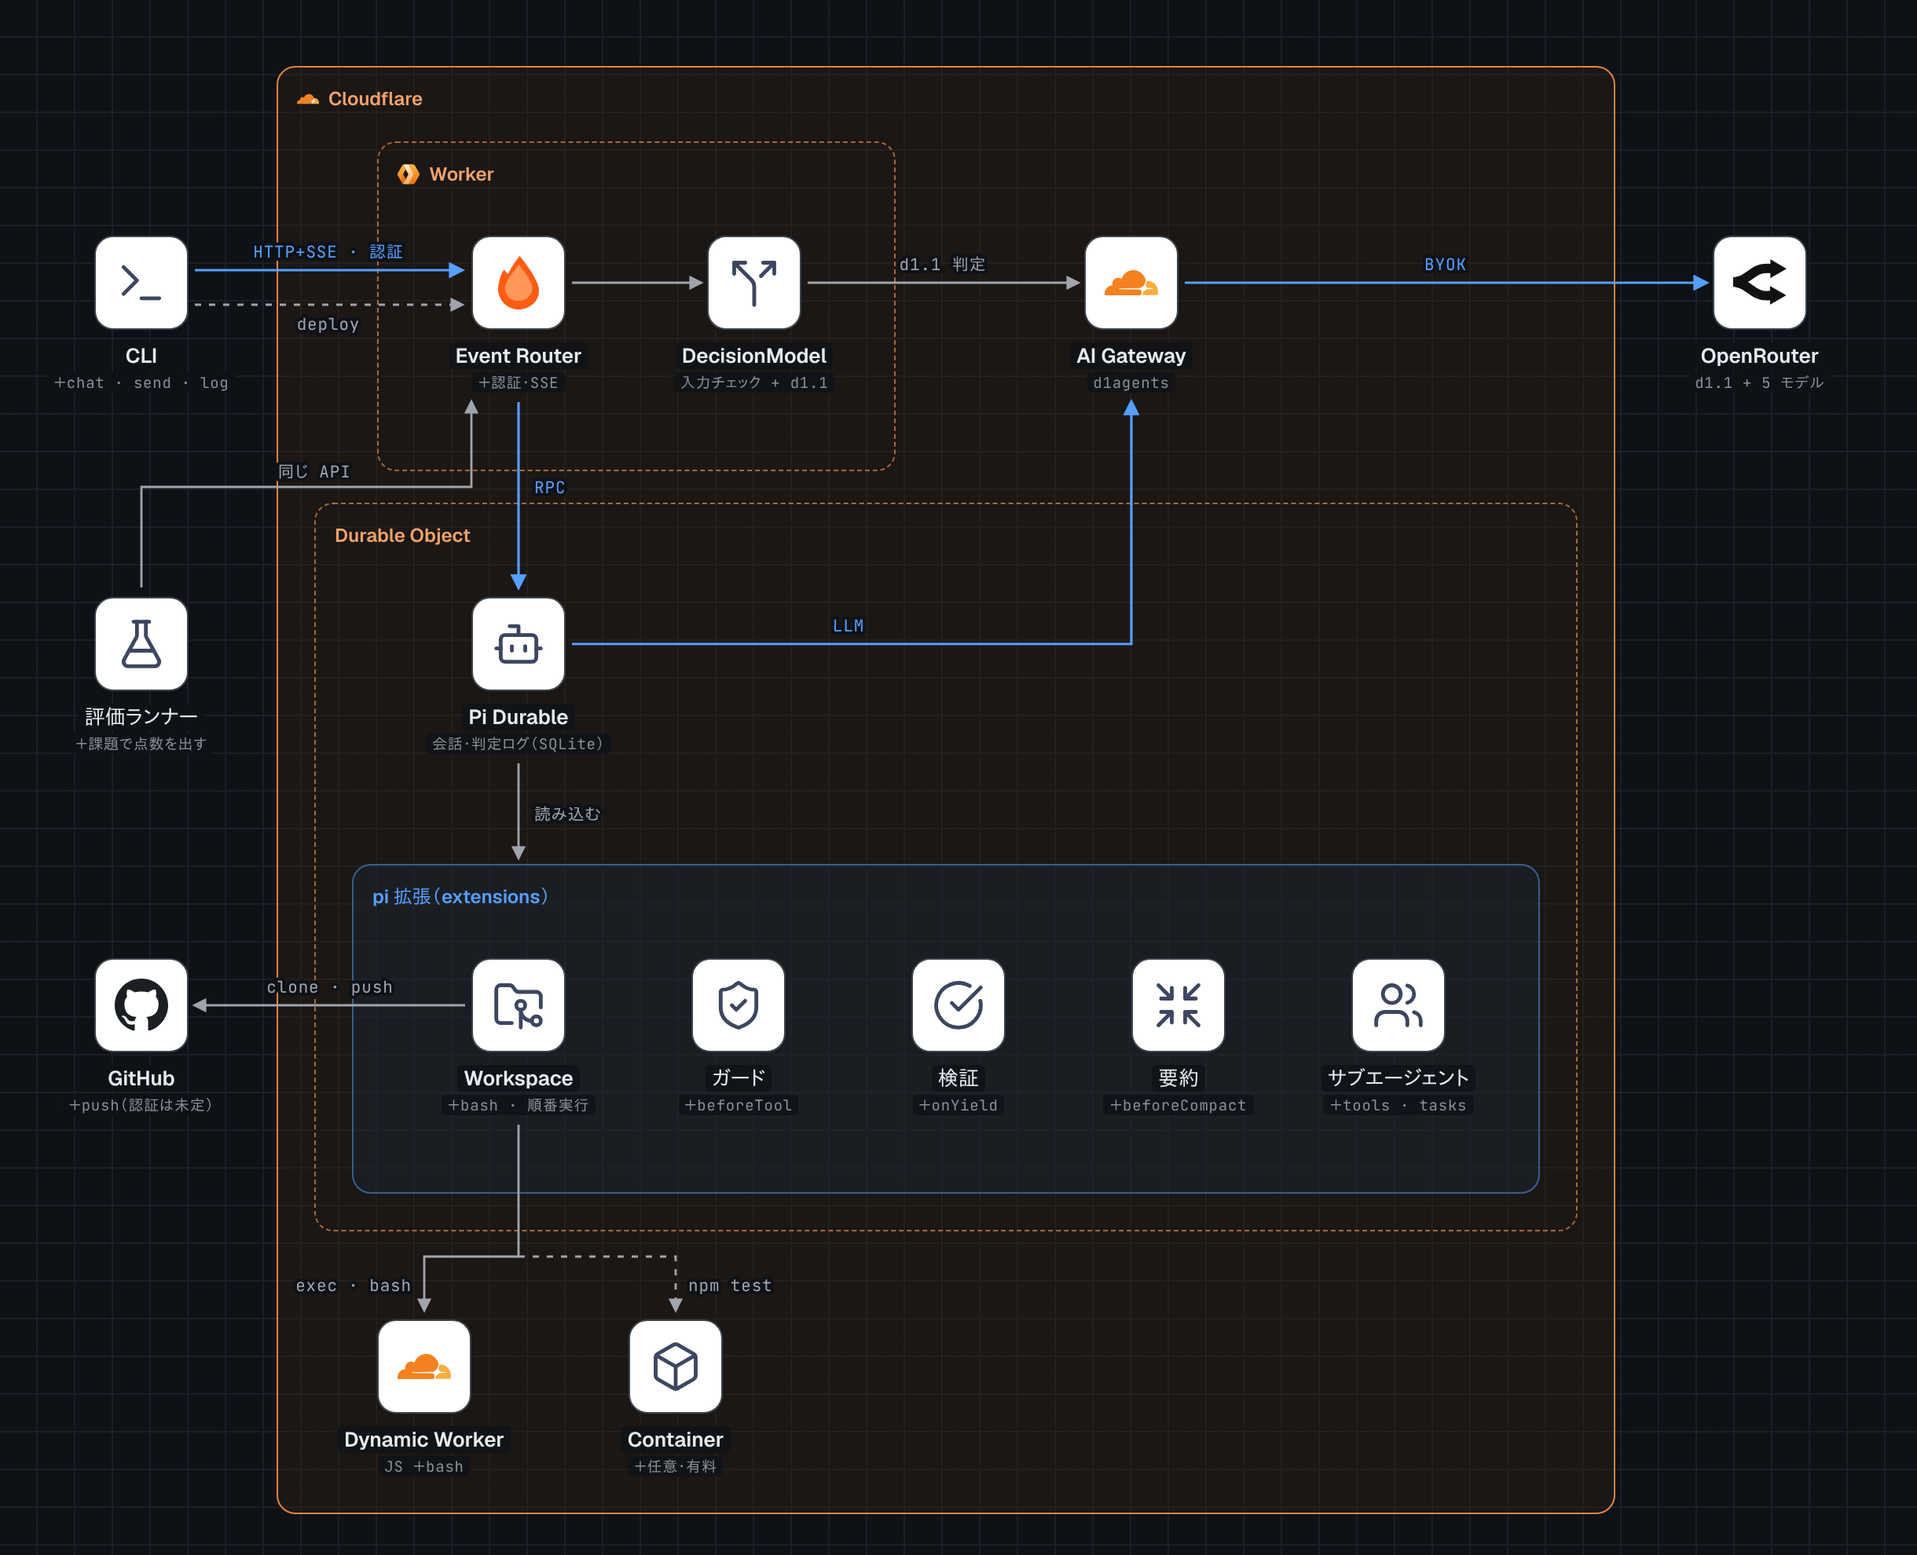
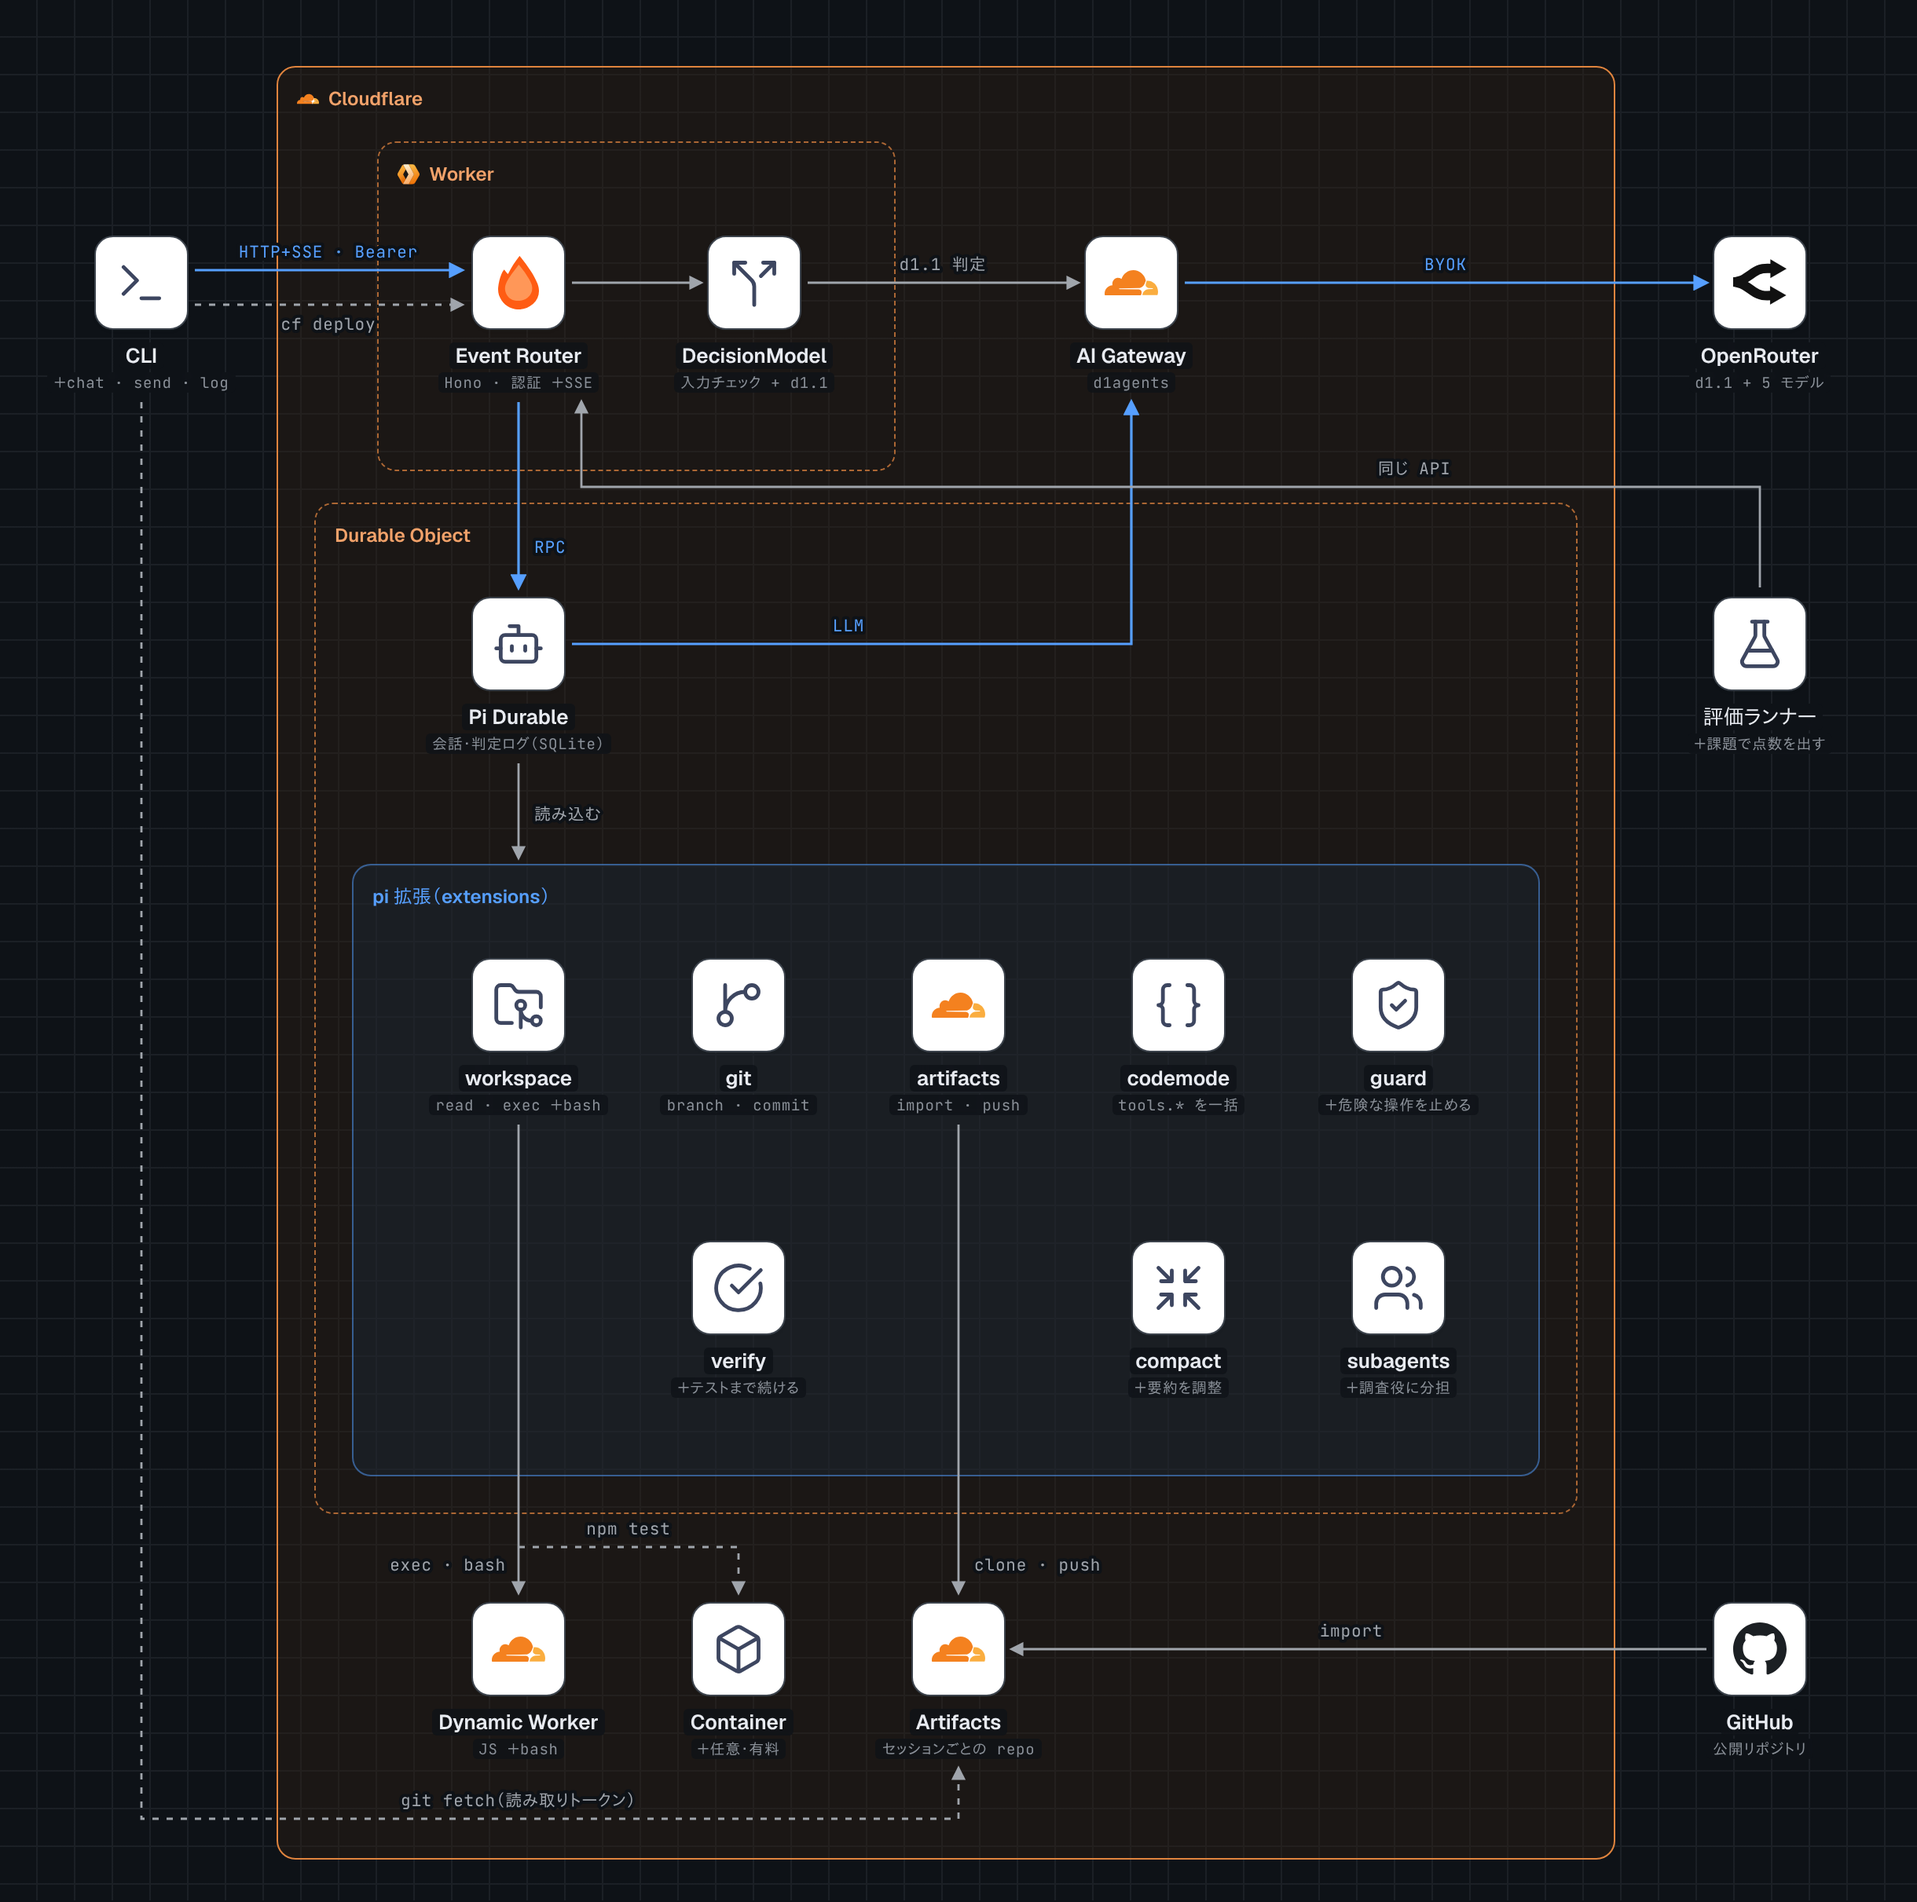
Redraw the target architecture diagram for Artifacts
The target diagram still showed the GitHub App path. Redraw it on the
current diagram's coordinates: per-session Artifacts repositories with
GitHub as an import source, the four current extensions, and the proposed
guard, verify, compact and subagents extensions in a second row, plus the
CLI, eval runner, SSE, bash and an optional Container. Refresh the
architecture README text and the current test count.

Claude-Session: https://claude.ai/code/session_01XNok8SzKsrcwuLyNE55Cg3

diff --git a/docs/architecture/target.html b/docs/architecture/target.html
@@ -189,67 +189,67 @@ table.cmp td code { font-family: var(--font-mono); font-size: 11.5px; }
       <div class="kicker">d1agents / 期待値 / 2026-11</div>
       <h1>D1Agents 期待値（案）</h1>
     </div>
-    <p class="lede">ハーネスの振る舞いは pi 拡張として足し、認証・API・SSE はアプリ側に足す案。</p>
+    <p class="lede">いまの構成に、CLI・評価ランナー・SSE、bash と Container、ガード・検証・要約・サブエージェントの拡張を足した案。</p>
   </header>
 
   <div class="scroller">
-  <div class="canvas" style="width:1220px; height:990px;">
+  <div class="canvas" style="width:1220px; height:1210px;">
 
-    <div class="group ga" style="left:176px; top:42px; width:852px; height:922px;">
+    <div class="group ga" style="left:176px; top:42px; width:852px; height:1142px;">
[1 lines of base64/hex data omitted]
     </div>
     <div class="group ga-nested" style="left:240px; top:90px; width:330px; height:210px;">
[1 lines of base64/hex data omitted]
     </div>
-    <div class="group ga-nested" style="left:200px; top:320px; width:804px; height:464px;">
+    <div class="group ga-nested" style="left:200px; top:320px; width:804px; height:644px;">
       <div class="g-label">Durable Object</div>
     </div>
-    <div class="group gb" style="left:224px; top:550px; width:756px; height:210px;">
+    <div class="group gb" style="left:224px; top:550px; width:756px; height:390px;">
       <div class="g-label">pi 拡張（extensions）</div>
     </div>
 
-    <svg class="edges" style="width:1220px; height:990px;" viewBox="0 0 1220 990" aria-hidden="true">
+    <svg class="edges" style="width:1220px; height:1210px;" viewBox="0 0 1220 1210" aria-hidden="true">
       <defs>
         <marker id="ar" viewBox="0 0 10 10" refX="8" refY="5" markerWidth="6.5" markerHeight="6.5" orient="auto-start-reverse">
           <path d="M0 0 L10 5 L0 10 z" fill="context-stroke"/>
         </marker>
       </defs>
       <path class="e" d="M124 172 H294" marker-end="url(#ar)"/>
-      <text class="el a" x="209" y="164" text-anchor="middle">HTTP+SSE · 認証</text>
+      <text class="el a" x="209" y="164" text-anchor="middle">HTTP+SSE · Bearer</text>
       <path class="n dash" d="M124 194 H294" marker-end="url(#ar)"/>
-      <text class="el" x="209" y="210" text-anchor="middle">deploy</text>
+      <text class="el" x="209" y="210" text-anchor="middle">cf deploy</text>
       <path class="n" d="M364 180 H446" marker-end="url(#ar)"/>
       <path class="n" d="M514 180 H686" marker-end="url(#ar)"/>
       <text class="el" x="600" y="172" text-anchor="middle">d1.1 判定</text>
       <path class="e" d="M754 180 H1086" marker-end="url(#ar)"/>
       <text class="el a" x="920" y="172" text-anchor="middle">BYOK</text>
       <path class="e" d="M330 256 V374" marker-end="url(#ar)"/>
-      <text class="el a" x="340" y="314" text-anchor="start">RPC</text>
+      <text class="el a" x="340" y="352" text-anchor="start">RPC</text>
       <path class="e" d="M364 410 H720 V256" marker-end="url(#ar)"/>
       <text class="el a" x="540" y="402" text-anchor="middle">LLM</text>
       <path class="n" d="M330 486 V546" marker-end="url(#ar)"/>
       <text class="el" x="340" y="522" text-anchor="start">読み込む</text>
-      <path class="n" d="M90 374 V310 H300 V256" marker-end="url(#ar)"/>
-      <text class="el" x="200" y="304" text-anchor="middle">同じ API</text>
-      <path class="n" d="M296 640 H124" marker-end="url(#ar)"/>
-      <text class="el" x="210" y="632" text-anchor="middle">clone · push</text>
-      <path class="n" d="M330 716 V800 H270 V834" marker-end="url(#ar)"/>
-      <text class="el" x="262" y="822" text-anchor="end">exec · bash</text>
-      <path class="n dash" d="M330 800 H430 V834" marker-end="url(#ar)"/>
-      <text class="el" x="438" y="822" text-anchor="start">npm test</text>
+      <path class="n" d="M1120 374 V310 H370 V256" marker-end="url(#ar)"/>
+      <text class="el" x="900" y="302" text-anchor="middle">同じ API</text>
+      <path class="n" d="M330 716 V1014" marker-end="url(#ar)"/>
+      <text class="el" x="322" y="1000" text-anchor="end">exec · bash</text>
+      <path class="n dash" d="M330 985 H470 V1014" marker-end="url(#ar)"/>
+      <text class="el" x="400" y="977" text-anchor="middle">npm test</text>
+      <path class="n" d="M610 716 V1014" marker-end="url(#ar)"/>
+      <text class="el" x="620" y="1000" text-anchor="start">clone · push</text>
+      <path class="n" d="M1086 1050 H644" marker-end="url(#ar)"/>
+      <text class="el" x="860" y="1042" text-anchor="middle">import</text>
+      <path class="n dash" d="M90 256 V1158 H610 V1126" marker-end="url(#ar)"/>
+      <text class="el" x="330" y="1150" text-anchor="middle">git fetch（読み取りトークン）</text>
     </svg>
 
     <div class="node" style="left:24px;top:150px">
[1 lines of base64/hex data omitted]
       <div class="name"><span>CLI</span></div><div class="role"><span>＋chat · send · log</span></div>
     </div>
-    <div class="node" style="left:24px;top:380px">
[1 lines of base64/hex data omitted]
-      <div class="name"><span>評価ランナー</span></div><div class="role"><span>＋課題で点数を出す</span></div>
-    </div>
     <div class="node" style="left:264px;top:150px">
[1 lines of base64/hex data omitted]
-      <div class="name"><span>Event Router</span></div><div class="role"><span>＋認証・SSE</span></div>
+      <div class="name"><span>Event Router</span></div><div class="role"><span>Hono · 認証 ＋SSE</span></div>
     </div>
     <div class="node" style="left:414px;top:150px">
[1 lines of base64/hex data omitted]
@@ -263,41 +263,61 @@ table.cmp td code { font-family: var(--font-mono); font-size: 11.5px; }
[1 lines of base64/hex data omitted]
       <div class="name"><span>OpenRouter</span></div><div class="role"><span>d1.1 + 5 モデル</span></div>
     </div>
+    <div class="node" style="left:1054px;top:380px">
[1 lines of base64/hex data omitted]
+      <div class="name"><span>評価ランナー</span></div><div class="role"><span>＋課題で点数を出す</span></div>
+    </div>
     <div class="node" style="left:264px;top:380px">
[1 lines of base64/hex data omitted]
       <div class="name"><span>Pi Durable</span></div><div class="role"><span>会話・判定ログ（SQLite）</span></div>
     </div>
     <div class="node" style="left:264px;top:610px">
[1 lines of base64/hex data omitted]
-      <div class="name"><span>Workspace</span></div><div class="role"><span>＋bash · 順番実行</span></div>
+      <div class="name"><span>workspace</span></div><div class="role"><span>read · exec ＋bash</span></div>
     </div>
     <div class="node" style="left:404px;top:610px">
[1 lines of base64/hex data omitted]
-      <div class="name"><span>ガード</span></div><div class="role"><span>＋beforeTool</span></div>
[1 lines of base64/hex data omitted]
+      <div class="name"><span>git</span></div><div class="role"><span>branch · commit</span></div>
     </div>
     <div class="node" style="left:544px;top:610px">
[1 lines of base64/hex data omitted]
-      <div class="name"><span>検証</span></div><div class="role"><span>＋onYield</span></div>
[1 lines of base64/hex data omitted]
+      <div class="name"><span>artifacts</span></div><div class="role"><span>import · push</span></div>
     </div>
     <div class="node" style="left:684px;top:610px">
[1 lines of base64/hex data omitted]
-      <div class="name"><span>要約</span></div><div class="role"><span>＋beforeCompact</span></div>
[1 lines of base64/hex data omitted]
+      <div class="name"><span>codemode</span></div><div class="role"><span>tools.* を一括</span></div>
     </div>
     <div class="node" style="left:824px;top:610px">
[1 lines of base64/hex data omitted]
-      <div class="name"><span>サブエージェント</span></div><div class="role"><span>＋tools · tasks</span></div>
[1 lines of base64/hex data omitted]
+      <div class="name"><span>guard</span></div><div class="role"><span>＋危険な操作を止める</span></div>
     </div>
-    <div class="node" style="left:204px;top:840px">
+    <div class="node" style="left:404px;top:790px">
[1 lines of base64/hex data omitted]
+      <div class="name"><span>verify</span></div><div class="role"><span>＋テストまで続ける</span></div>
+    </div>
+    <div class="node" style="left:684px;top:790px">
[1 lines of base64/hex data omitted]
+      <div class="name"><span>compact</span></div><div class="role"><span>＋要約を調整</span></div>
+    </div>
+    <div class="node" style="left:824px;top:790px">
[1 lines of base64/hex data omitted]
+      <div class="name"><span>subagents</span></div><div class="role"><span>＋調査役に分担</span></div>
+    </div>
+    <div class="node" style="left:264px;top:1020px">
[1 lines of base64/hex data omitted]
       <div class="name"><span>Dynamic Worker</span></div><div class="role"><span>JS ＋bash</span></div>
     </div>
-    <div class="node" style="left:364px;top:840px">
+    <div class="node" style="left:404px;top:1020px">
[1 lines of base64/hex data omitted]
       <div class="name"><span>Container</span></div><div class="role"><span>＋任意・有料</span></div>
     </div>
-    <div class="node" style="left:24px;top:610px">
+    <div class="node" style="left:544px;top:1020px">
[1 lines of base64/hex data omitted]
+      <div class="name"><span>Artifacts</span></div><div class="role"><span>セッションごとの repo</span></div>
+    </div>
+    <div class="node" style="left:1054px;top:1020px">
[1 lines of base64/hex data omitted]
-      <div class="name"><span>GitHub</span></div><div class="role"><span>＋push（認証は未定）</span></div>
+      <div class="name"><span>GitHub</span></div><div class="role"><span>公開リポジトリ</span></div>
     </div>
 
   </div>
@@ -306,7 +326,7 @@ table.cmp td code { font-family: var(--font-mono); font-size: 11.5px; }
   <div class="legend">
     <span><span class="sw"></span>依頼の流れ</span>
     <span><span class="sw n"></span>内部の呼び出し</span>
-    <span><span class="sw n dash"></span>デプロイ・任意</span>
+    <span><span class="sw n dash"></span>人の操作（デプロイ・確認）</span>
     <span>＋ 追加する部分（案）</span>
   </div>
 
